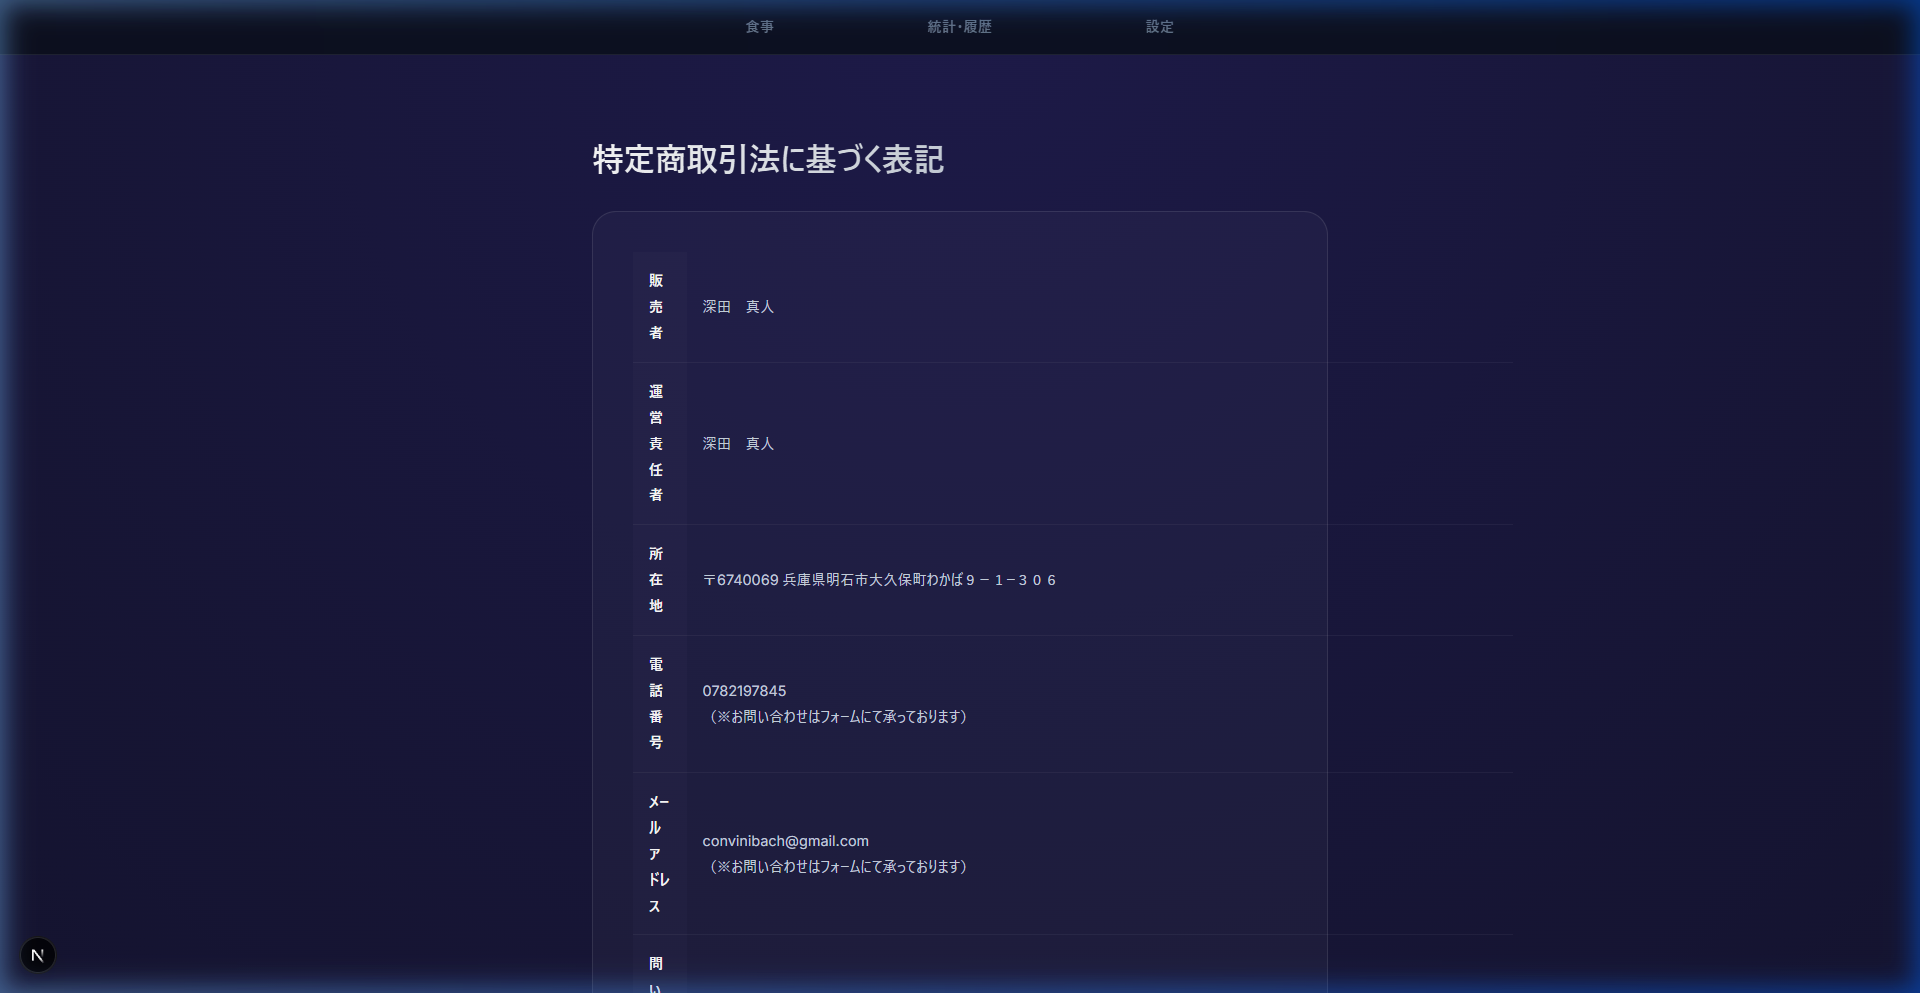
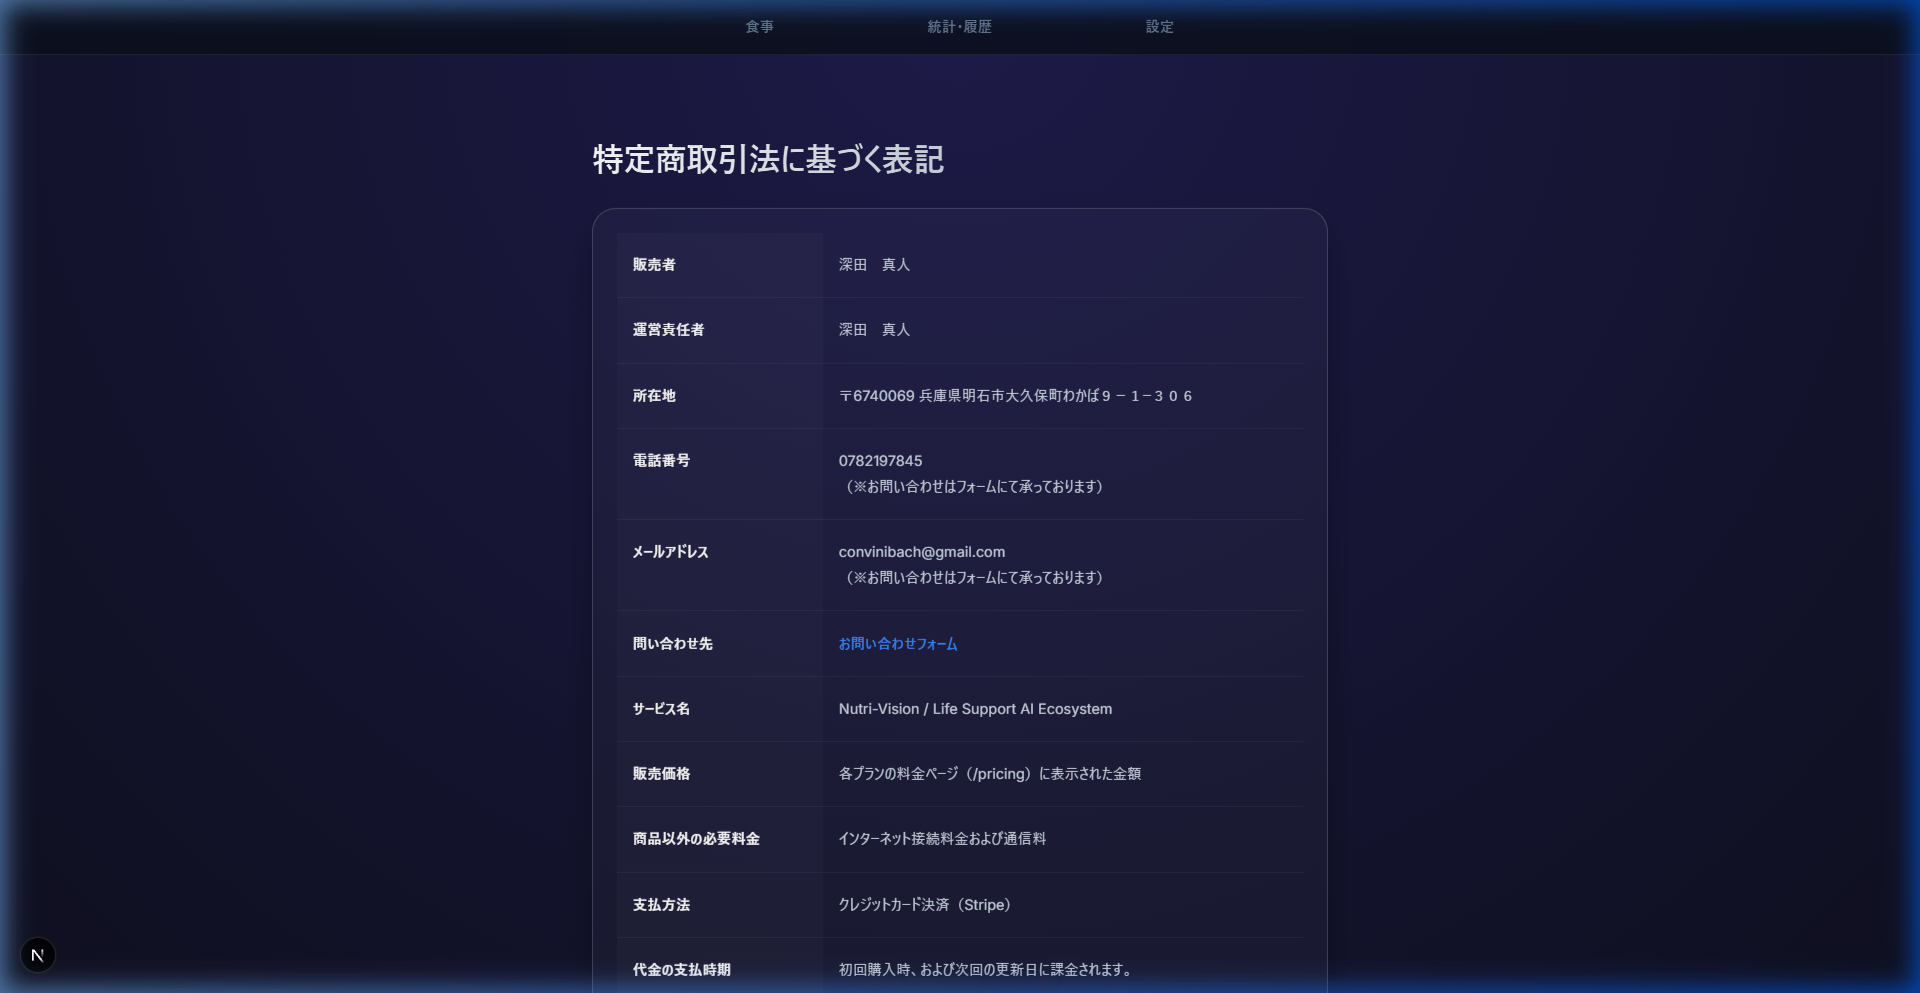
Fix SCTA layout, contact links, and restore missing footer links

diff --git a/src/app/legal/scta/page.tsx b/src/app/legal/scta/page.tsx
@@ -6,32 +6,47 @@ import TabNavigation from "@/components/TabNavigation";
 export default function SCTAPage() {
   const { lang, t } = useI18n();
 
+  const data = [
+    { label: "販売者", value: "深田　真人" },
+    { label: "運営責任者", value: "深田　真人" },
+    { label: "所在地", value: "〒6740069 兵庫県明石市大久保町わかば９－１ー３０６" },
+    { label: "電話番号", value: "0782197845\n（※お問い合わせはフォームにて承っております）" },
+    { label: "メールアドレス", value: "convinibach@gmail.com\n（※お問い合わせはフォームにて承っております）" },
+    { label: "問い合わせ先", value: "https://docs.google.com/forms/d/e/1FAIpQLScGmzoQL3ZJehCoSVYBoPB0lv9LkrsHAKzi3AjhIb8SE20h3g/viewform?usp=header", linkText: "お問い合わせフォーム" },
+    { label: "サービス名", value: "Nutri-Vision / Life Support AI Ecosystem" },
+    { label: "販売価格", value: "各プランの料金ページ（/pricing）に表示された金額" },
+    { label: "商品以外の必要料金", value: "インターネット接続料金および通信料" },
+    { label: "支払方法", value: "クレジットカード決済（Stripe）" },
+    { label: "代金の支払時期", value: "初回購入時、および次回の更新日に課金されます。" },
+    { label: "サービス提供時期", value: "購入手続き完了後、直ちにご利用いただけます。" },
+    { label: "返品・交換・キャンセル", value: "サービスの性質上、返品・返金は承っておりません。解約は次回の更新日前日までマイページより可能であり、解約後も現在の契約期間終了までご利用いただけます。" },
+  ];
+
   return (
     <main className="container" style={{ paddingTop: '8.5rem', paddingBottom: '8rem', maxWidth: '800px' }}>
       <TabNavigation />
       <h1 className="gradient-text" style={{ fontSize: '2rem', marginBottom: '2rem' }}>{t('nav.scta')}</h1>
       
-      <div className="glass-card" style={{ padding: '2.5rem', color: '#cbd5e1', lineHeight: '1.8' }}>
-        <table style={{ width: '100%', borderCollapse: 'collapse', fontSize: '0.9rem' }}>
+      <div className="glass-card" style={{ padding: '1.5rem', color: '#cbd5e1', lineHeight: '1.8', overflowX: 'auto' }}>
+        <table style={{ width: '100%', borderCollapse: 'collapse', fontSize: '0.9rem', minWidth: '500px' }}>
           <tbody>
-            {[
-              { label: "販売者", value: "深田　真人" },
-              { label: "運営責任者", value: "深田　真人" },
-              { label: "所在地", value: "〒6740069 兵庫県明石市大久保町わかば９－１ー３０６" },
-              { label: "電話番号", value: "0782197845\n（※お問い合わせはフォームにて承っております）" },
-              { label: "メールアドレス", value: "convinibach@gmail.com\n（※お問い合わせはフォームにて承っております）" },
-              { label: "問い合わせ先", value: "https://docs.google.com/forms/d/e/1FAIpQLScGmzoQL3ZJehCoSVYBoPB0lv9LkrsHAKzi3AjhIb8SE20h3g/viewform?usp=header" },
-              { label: "サービス名", value: "Nutri-Vision / Life Support AI Ecosystem" },
-              { label: "販売価格", value: "各プランの料金ページ（/pricing）に表示された金額" },
-              { label: "商品以外の必要料金", value: "インターネット接続料金および通信料" },
-              { label: "支払方法", value: "クレジットカード決済（Stripe）" },
-              { label: "代金の支払時期", value: "初回購入時、および次回の更新日に課金されます。" },
-              { label: "サービス提供時期", value: "購入手続き完了後、直ちにご利用いただけます。" },
-              { label: "返品・交換・キャンセル", value: "サービスの性質上、返品・返金は承っておりません。解約は次回の更新日前日までマイページより可能であり、解約後も現在の契約期間終了までご利用いただけます。" },
-            ].map((item, i) => (
+            {data.map((item, i) => (
               <tr key={i} style={{ borderBottom: '1px solid rgba(255,255,255,0.05)' }}>
-                <th style={{ textAlign: 'left', padding: '1rem', width: '30%', color: 'white', background: 'rgba(255,255,255,0.02)' }}>{item.label}</th>
-                <td style={{ padding: '1rem', whiteSpace: 'pre-wrap' }}>{item.value}</td>
+                <th style={{ 
+                  textAlign: 'left', padding: '1.2rem 1rem', width: '30%', color: 'white', 
+                  background: 'rgba(255,255,255,0.02)', verticalAlign: 'top' 
+                }}>
+                  {item.label}
+                </th>
+                <td style={{ padding: '1.2rem 1rem', whiteSpace: 'pre-wrap' }}>
+                  {item.linkText ? (
+                    <a href={item.value} target="_blank" rel="noopener noreferrer" style={{ color: 'var(--primary)', fontWeight: 'bold' }}>
+                      {item.linkText}
+                    </a>
+                  ) : (
+                    item.value
+                  )}
+                </td>
               </tr>
             ))}
           </tbody>

diff --git a/src/components/Footer.tsx b/src/components/Footer.tsx
@@ -31,6 +31,11 @@ export default function Footer() {
           gap: '1.5rem',
           fontSize: '0.85rem'
         }}>
+          <Link href="/guide" style={{ color: 'var(--primary)', fontWeight: 'bold', textDecoration: 'none' }}>{t('nav.guide')}</Link>
+          <Link href="/pricing" style={{ color: '#94a3b8', textDecoration: 'none' }}>{t('nav.pricing')}</Link>
+          <Link href="/legal/tos" style={{ color: '#94a3b8', textDecoration: 'none' }}>{t('nav.tos')}</Link>
+          <Link href="/legal/privacy" style={{ color: '#94a3b8', textDecoration: 'none' }}>{t('nav.privacy')}</Link>
+          <Link href="/legal/scta" style={{ color: '#94a3b8', textDecoration: 'none' }}>{t('nav.scta')}</Link>
         </div>
         
         <div style={{
